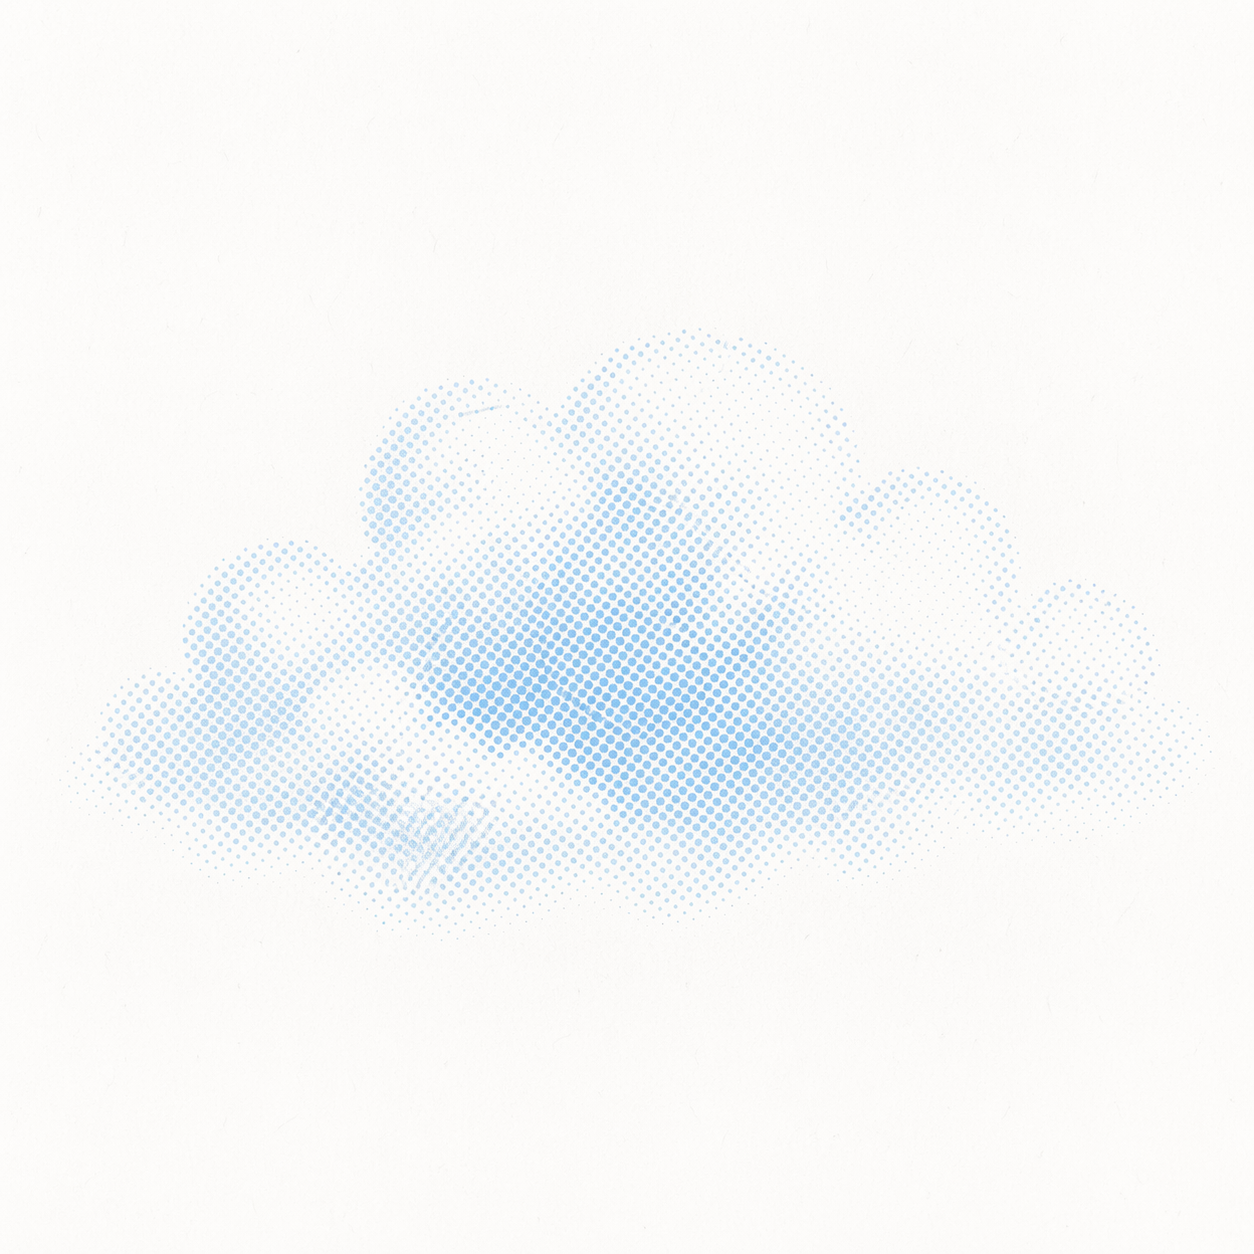
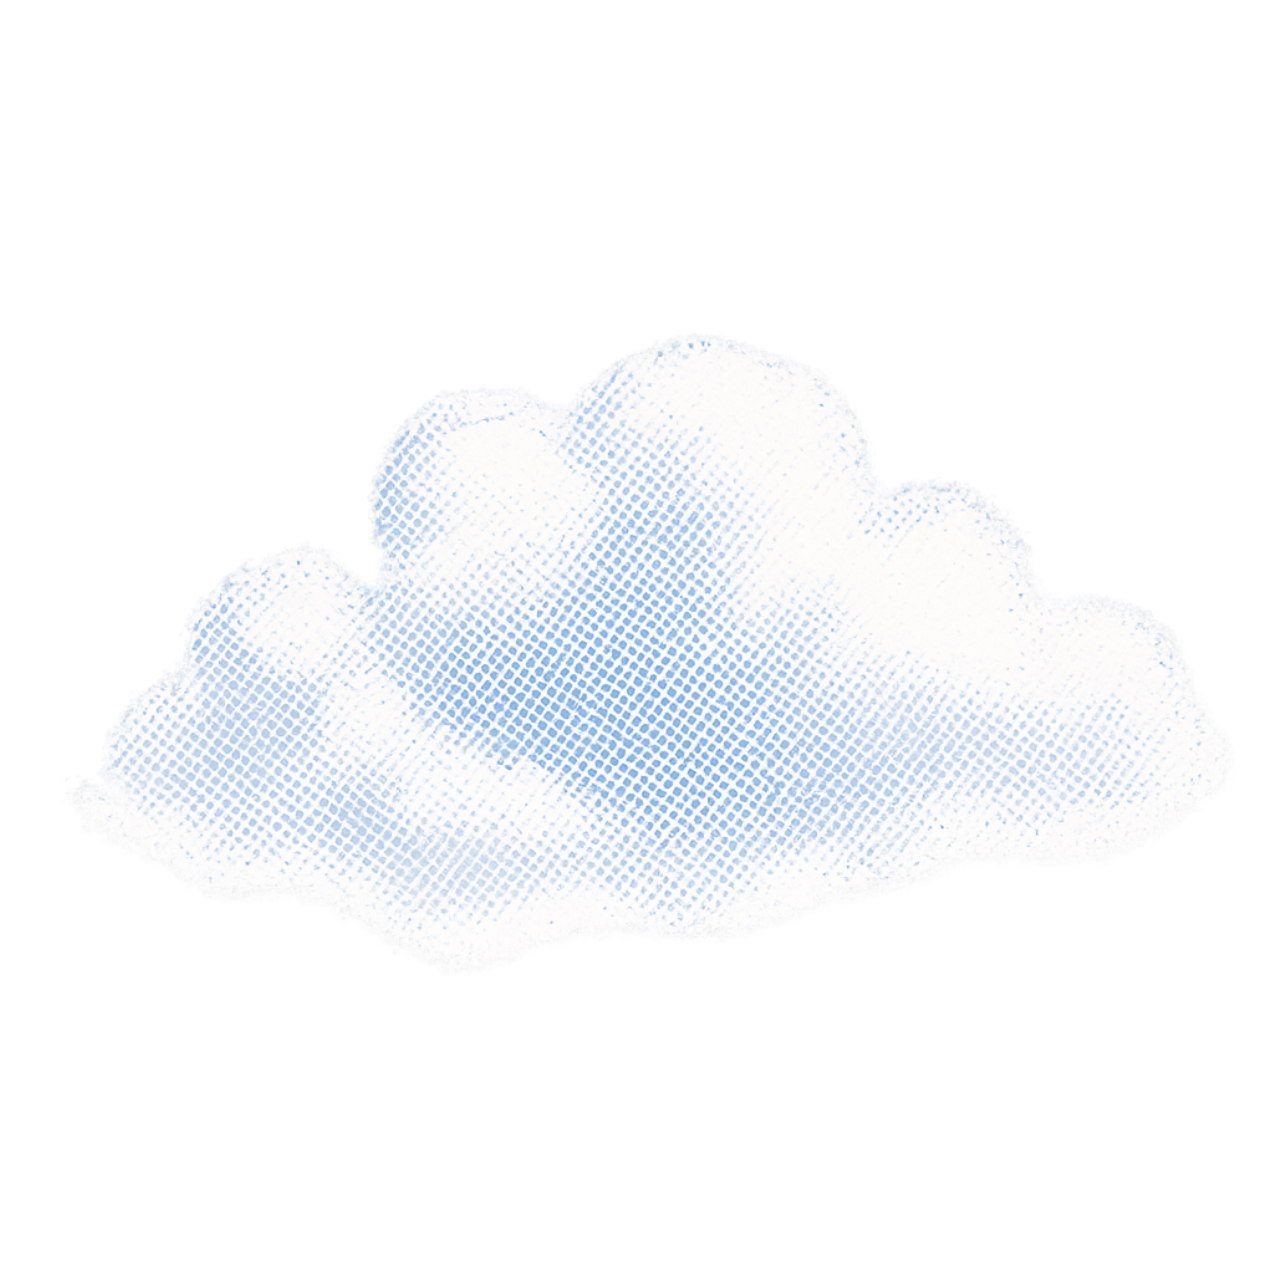
fix(landing-ga): verify-phase findings — meta title, anchors, nav, note placement
- Fallback / head now carries the GA title and description from 01-meta.mdx
  (route-isolation verifier expectation updated to the approved new title)
- scroll-mt on all anchor targets so the fixed nav never covers section tops
- nav links hidden below md, matching the v1 header convention
- synthetic-record disclosure moved beside the pinned frame (and after the
  acts in the stacked presentation); non-enhanced desktop collapses to one
  centred column
- memo/apps numerals switched from font-mono to Inter tabular-nums (TYP-1)
- restored this branch's cloud-halftone texture (main's variant rendered as
  an opaque plate under mix-blend-lighten)
- design evidence captured under docs/design-evidence/ga-landing-page/

Claude-Session: https://claude.ai/code/session_017mDVPufAQKJDq1yhJn9Kge

diff --git a/src/components/landing-ga/ga-journey.tsx b/src/components/landing-ga/ga-journey.tsx
@@ -64,13 +64,16 @@ export function GaJourney() {
   return (
     <section
       aria-label="One student's care journey"
-      className="px-5 py-20 sm:px-8 lg:py-28"
+      className="scroll-mt-28 px-5 py-20 sm:px-8 lg:py-28"
       id={gaSectionAnchors.journey}
     >
-      <p className="mx-auto mb-12 w-full max-w-[1220px] text-sm leading-5 text-[color:var(--paper-muted)] italic">
-        {gaPageCopy.journey.syntheticNote}
-      </p>
-      <div className="mx-auto grid w-full max-w-[1220px] gap-x-14 gap-y-16 lg:grid-cols-[minmax(0,5fr)_minmax(0,6fr)]">
+      <div
+        className={
+          enhanced
+            ? "mx-auto grid w-full max-w-[1220px] gap-x-14 gap-y-16 lg:grid-cols-[minmax(0,5fr)_minmax(0,6fr)]"
+            : "mx-auto flex w-full max-w-[720px] flex-col"
+        }
+      >
         <div className="flex flex-col gap-y-16 lg:gap-y-0" ref={actsRef}>
           {gaJourneyActs.map((act, index) => (
             <JourneyActBlock
@@ -80,38 +83,48 @@ export function GaJourney() {
               key={act.id}
             />
           ))}
+          {enhanced ? null : (
+            <p className="mt-12 text-sm leading-5 text-[color:var(--paper-muted)] italic">
+              {gaPageCopy.journey.syntheticNote}
+            </p>
+          )}
         </div>
 
         {enhanced ? (
           <div className="hidden lg:block">
-            <figure
-              aria-label={`One product surface stepping through the journey: ${gaJourneyActs
-                .map((act) => act.screen.depicts)
-                .join(" ")}`}
-              className="sticky top-28 flex h-[min(600px,calc(100svh-10rem))] flex-col rounded-2xl border border-[color:var(--paper-rule-strong)] bg-[color:var(--paper-card)] p-5 shadow-[var(--paper-shadow-card)]"
-              role="img"
-            >
-              <div aria-hidden className="flex gap-1.5 pb-4">
-                <i className="size-2 rounded-full bg-[color:var(--paper-rule-strong)]" />
-                <i className="size-2 rounded-full bg-[color:var(--paper-rule-strong)]" />
-                <i className="size-2 rounded-full bg-[color:var(--paper-rule-strong)]" />
-              </div>
-              <div aria-hidden className="relative flex-1">
-                {gaJourneyActs.map((act, index) => (
-                  <img
-                    alt=""
-                    className={`absolute inset-0 m-auto max-h-full max-w-full rounded-lg object-contain transition-opacity duration-200 ease-in-out ${
-                      index === activeIndex ? "opacity-100" : "opacity-0"
-                    }`}
-                    height={act.screen.height}
-                    key={act.id}
-                    loading={index === 0 ? "eager" : "lazy"}
-                    src={act.screen.src}
-                    width={act.screen.width}
-                  />
-                ))}
-              </div>
-            </figure>
+            <div className="sticky top-28">
+              <figure
+                aria-label={`One product surface stepping through the journey: ${gaJourneyActs
+                  .map((act) => act.screen.depicts)
+                  .join(" ")}`}
+                className="flex h-[min(560px,calc(100svh-13rem))] flex-col rounded-2xl border border-[color:var(--paper-rule-strong)] bg-[color:var(--paper-card)] p-5 shadow-[var(--paper-shadow-card)]"
+                role="img"
+              >
+                <div aria-hidden className="flex gap-1.5 pb-4">
+                  <i className="size-2 rounded-full bg-[color:var(--paper-rule-strong)]" />
+                  <i className="size-2 rounded-full bg-[color:var(--paper-rule-strong)]" />
+                  <i className="size-2 rounded-full bg-[color:var(--paper-rule-strong)]" />
+                </div>
+                <div aria-hidden className="relative flex-1">
+                  {gaJourneyActs.map((act, index) => (
+                    <img
+                      alt=""
+                      className={`absolute inset-0 m-auto max-h-full max-w-full rounded-lg object-contain transition-opacity duration-200 ease-in-out ${
+                        index === activeIndex ? "opacity-100" : "opacity-0"
+                      }`}
+                      height={act.screen.height}
+                      key={act.id}
+                      loading={index === 0 ? "eager" : "lazy"}
+                      src={act.screen.src}
+                      width={act.screen.width}
+                    />
+                  ))}
+                </div>
+              </figure>
+              <p className="mt-3 text-center text-sm leading-5 text-[color:var(--paper-muted)] italic">
+                {gaPageCopy.journey.syntheticNote}
+              </p>
+            </div>
           </div>
         ) : null}
       </div>
@@ -134,6 +147,7 @@ function JourneyActBlock({ act, index, enhanced }: JourneyActBlockProps) {
           : "flex flex-col"
       }
       data-act-index={index}
+      style={{ scrollMarginTop: "7rem" }}
       id={`act-${act.id}`}
     >
       <p className="text-sm leading-5 font-semibold text-[color:var(--paper-muted)]">

diff --git a/src/components/landing-ga/ga-apps.tsx b/src/components/landing-ga/ga-apps.tsx
@@ -15,7 +15,7 @@ export function GaApps() {
   return (
     <section
       aria-labelledby="ga-apps-title"
-      className="px-5 py-20 sm:px-8 lg:py-28"
+      className="scroll-mt-28 px-5 py-20 sm:px-8 lg:py-28"
       id={gaSectionAnchors.apps}
     >
       <div className="mx-auto w-full max-w-[1220px]">
@@ -40,7 +40,7 @@ export function GaApps() {
                 className="group flex flex-1 flex-col rounded-xl border border-[color:var(--paper-rule)] bg-[color:var(--paper-card)] p-6 shadow-[var(--paper-shadow-card)] transition-[translate,box-shadow] duration-200 ease-out hover:-translate-y-1 hover:shadow-[var(--paper-shadow-card-hover)] focus-visible:outline-none focus-visible:ring-3 focus-visible:ring-primary/40"
                 href={`#${capability.actAnchor}`}
               >
-                <span className="font-mono text-xs leading-4 font-medium text-[color:var(--paper-muted)] tabular-nums">
+                <span className="font-body text-xs leading-4 font-medium text-[color:var(--paper-muted)] tabular-nums">
                   {String(index + 1).padStart(2, "0")}
                 </span>
                 <h3 className="mt-3 font-heading text-lg leading-6 font-semibold text-[color:var(--paper-ink)]">

diff --git a/src/content/landing-ga-page.ts b/src/content/landing-ga-page.ts
@@ -1,3 +1,4 @@
+import metaSource from "/content/landing/01-meta.mdx"
 import heroSource from "/content/landing/02-hero.mdx"
 import storySource from "/content/landing/03-story.mdx"
 import revealSource from "/content/landing/04-reveal.mdx"
@@ -20,6 +21,7 @@ import { MdxDocument, itemBody, itemHeading } from "./mdx-document"
  * module in sync with the governance source of truth at test time.
  */
 
+const metaDocument = new MdxDocument(metaSource)
 const heroDocument = new MdxDocument(heroSource)
 const storyDocument = new MdxDocument(storySource)
 const revealDocument = new MdxDocument(revealSource)
@@ -256,6 +258,10 @@ export const gaNavItems = [
 ] as const
 
 export const gaPageCopy = {
+  meta: {
+    title: metaDocument.requireHeading(),
+    description: metaDocument.requireBody(),
+  },
   hero: {
     headline: heroDocument.requireHeading(),
     body: heroDocument.requireBody(),

diff --git a/src/routes/index.tsx b/src/routes/index.tsx
@@ -2,6 +2,7 @@ import { createFileRoute } from "@tanstack/react-router"
 
 import type { PublicPageData } from "@/server/public-page"
 import { GaLandingPage } from "@/components/landing-ga/ga-landing-page"
+import { gaPageCopy } from "@/content/landing-ga-page"
 import { CmsPublishedPage } from "@/components/public/cms-public-page"
 import { PublicPageMessage } from "@/components/public/public-page-message"
 import {
@@ -29,6 +30,10 @@ export function publicHomeHead(data: PublicPageData | undefined) {
     }
   }
   return {
+    meta: [
+      { title: gaPageCopy.meta.title },
+      { name: "description", content: gaPageCopy.meta.description },
+    ],
     links: [
       {
         rel: "preload",

diff --git a/src/components/landing-ga/ga-header.tsx b/src/components/landing-ga/ga-header.tsx
@@ -50,7 +50,7 @@ export function GaHeader() {
           </span>
         </a>
 
-        <div className="flex items-center gap-5 text-sm font-semibold text-[color:var(--paper-ink)] sm:gap-8">
+        <div className="hidden items-center gap-8 text-sm font-semibold text-[color:var(--paper-ink)] md:flex">
           {gaNavItems.map((item) => (
             <a
               className="inline-flex h-10 items-center rounded-sm transition-colors duration-200 ease-out hover:text-primary focus-visible:outline-none focus-visible:ring-3 focus-visible:ring-primary/40"

diff --git a/src/components/landing/memo-card.tsx b/src/components/landing/memo-card.tsx
@@ -168,7 +168,7 @@ export function MemoCard({ memo, index }: MemoCardProps) {
         style={cursorStyle}
         transition={transition}
       >
-        <p className="font-mono text-[12px] leading-[16px] font-medium text-[color:var(--paper-muted)]">
+        <p className="font-body text-[12px] leading-[16px] font-medium tracking-[0.02em] text-[color:var(--paper-muted)] tabular-nums">
           {memo.number}
         </p>
         <p className="mt-5 text-[22px] leading-[32px] font-medium tracking-[-0.01em] text-[color:var(--paper-ink)] italic">

diff --git a/src/components/landing-ga/ga-schools.tsx b/src/components/landing-ga/ga-schools.tsx
@@ -13,7 +13,7 @@ export function GaSchools() {
   return (
     <section
       aria-labelledby="ga-schools-title"
-      className="px-5 pb-20 sm:px-8 lg:pb-28"
+      className="scroll-mt-28 px-5 pb-20 sm:px-8 lg:pb-28"
       id={gaSectionAnchors.schools}
     >
       <div className="mx-auto w-full max-w-[1412px] rounded-[28px] bg-[color:var(--memo-section-bg)] px-6 py-14 sm:rounded-[44px] sm:px-12 sm:py-24 lg:px-24 lg:py-28">

diff --git a/src/components/landing-ga/ga-audiences.tsx b/src/components/landing-ga/ga-audiences.tsx
@@ -24,7 +24,7 @@ export function GaAudiences() {
   return (
     <section
       aria-labelledby="ga-audiences-title"
-      className="px-5 pb-20 sm:px-8 lg:pb-28"
+      className="scroll-mt-28 px-5 pb-20 sm:px-8 lg:pb-28"
       id={gaSectionAnchors.audiences}
     >
       <div className="mx-auto w-full max-w-[1220px]">
